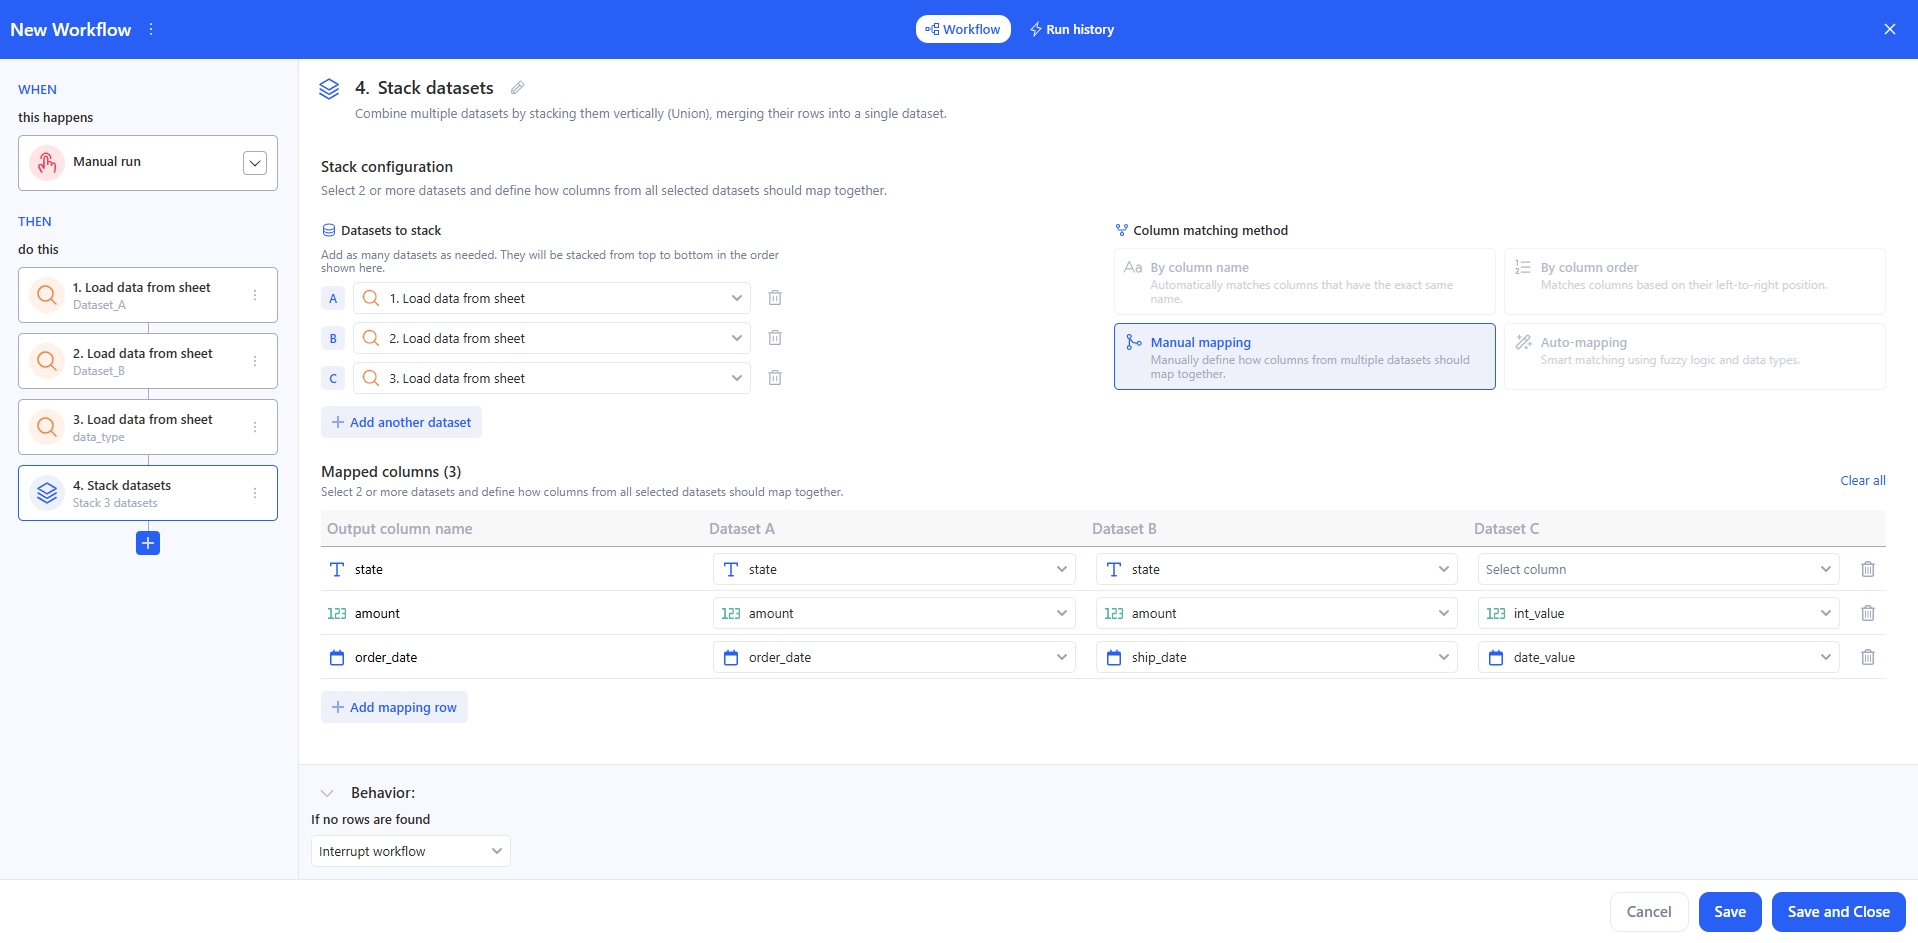
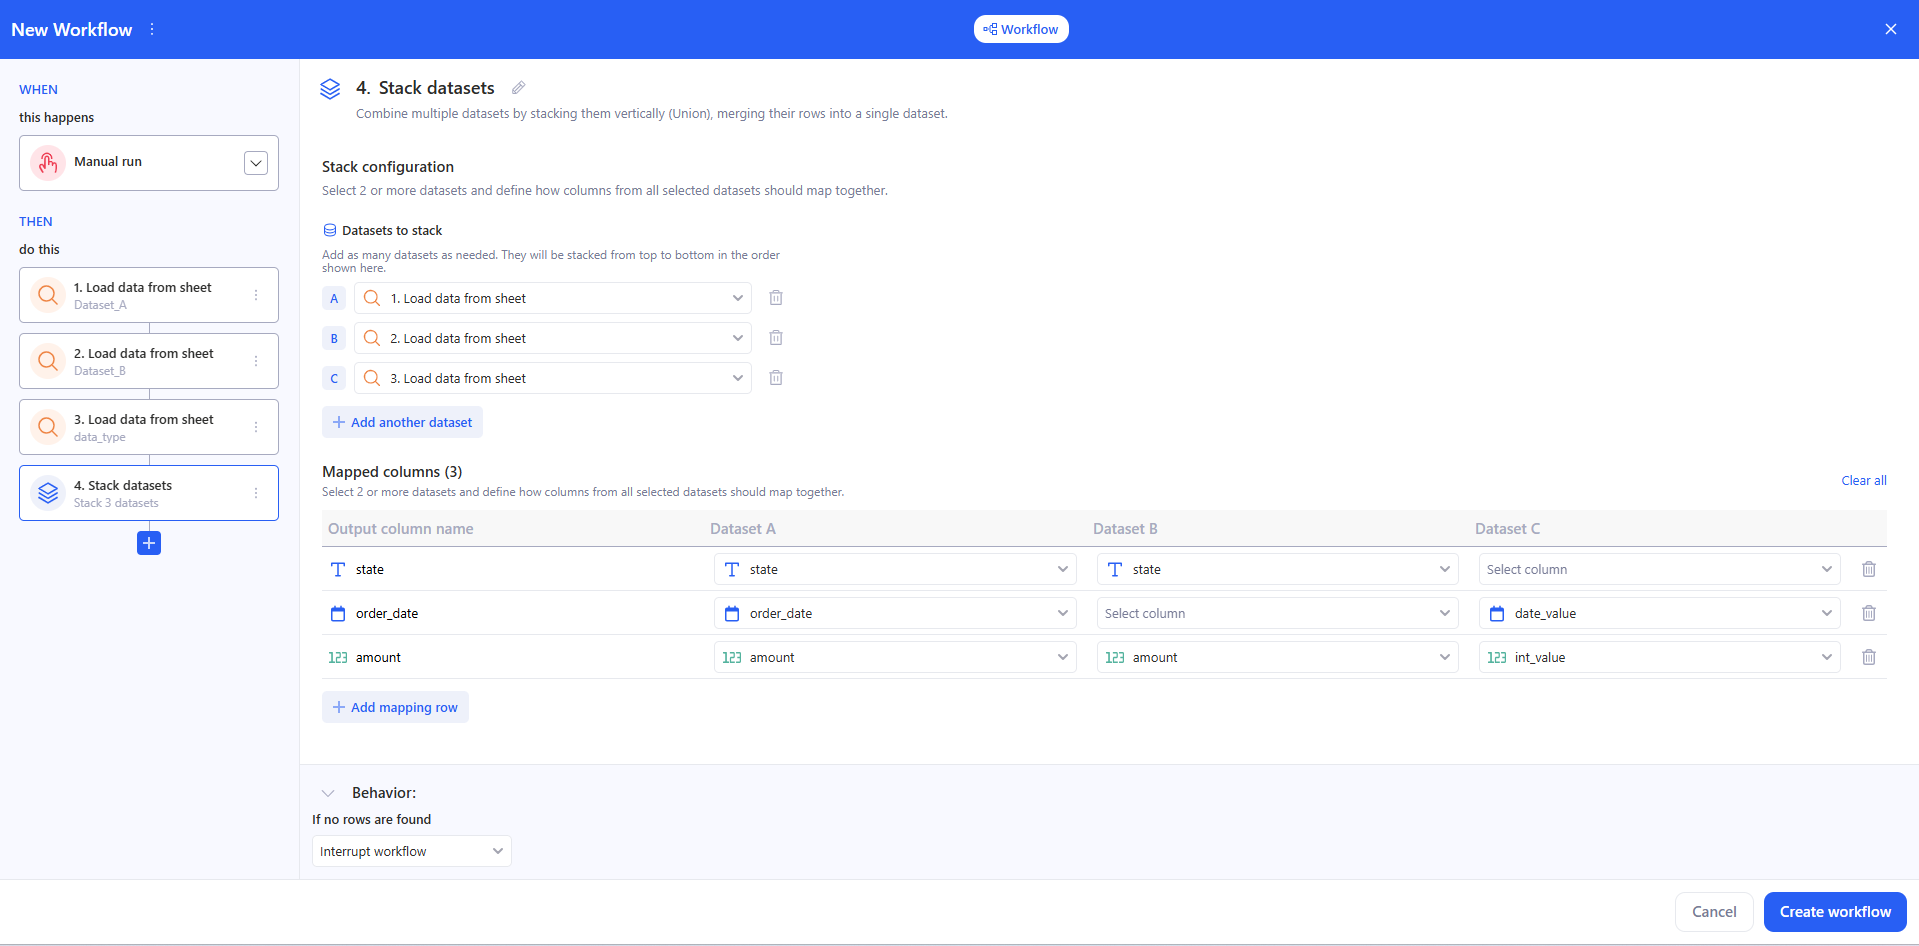
GITBOOK-44: No subject

diff --git a/07_00_workflows/README.md b/07_00_workflows/README.md
@@ -317,15 +317,6 @@ Use **Stack datasets** to combine 2 or more tables produced by previous workflow
   * Datasets are shown as A, B, C... and are stacked from top to bottom in the order shown in the list.
   * Click + **Add another dataset** to add more inputs.
   * If you remove a dataset, its selections are removed from the mapping table.
-  * Choose the **Column matching method**
-* The UI shows four methods:
-  * By column name
-  * By column order
-  * Manual mapping
-  * Auto-mapping
-
-> Currently, only Manual mapping is active.
-
 * Define Mapped columns
 * In Mapped columns:
   * A dataset column appears only after a source dataset is selected.
